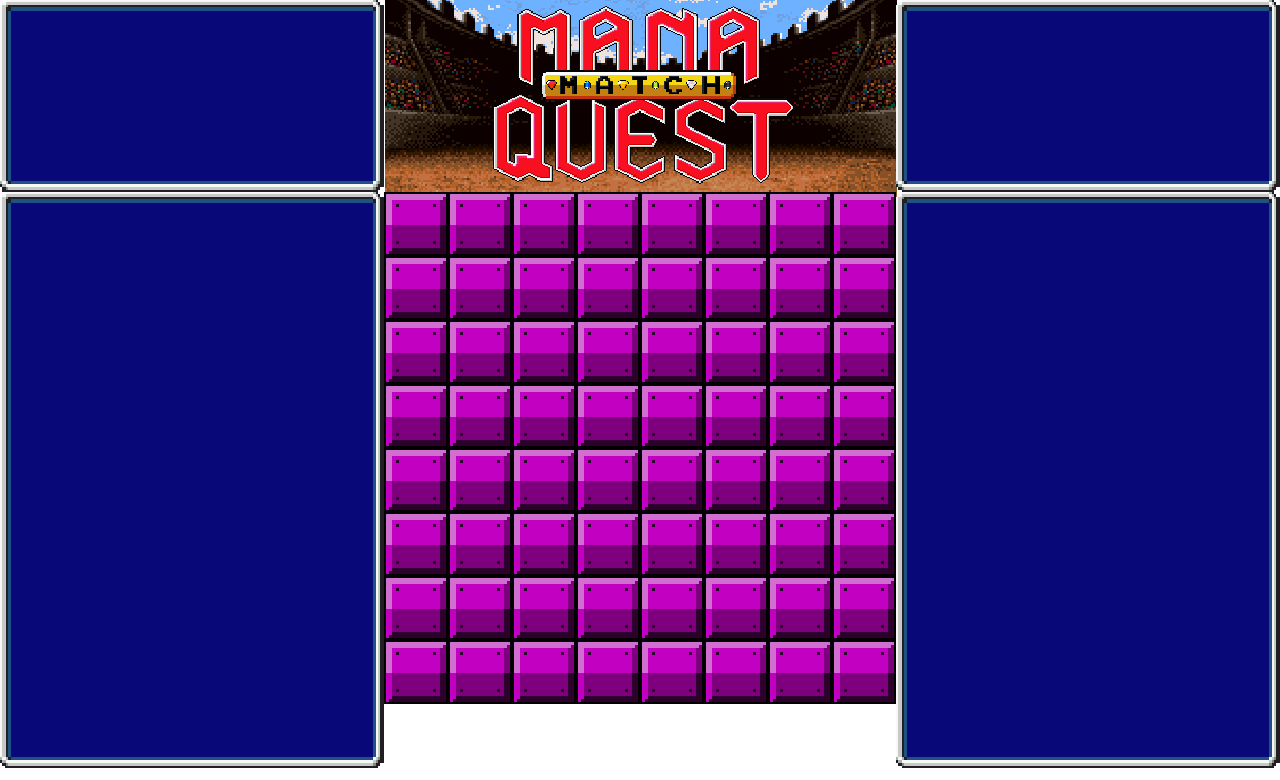
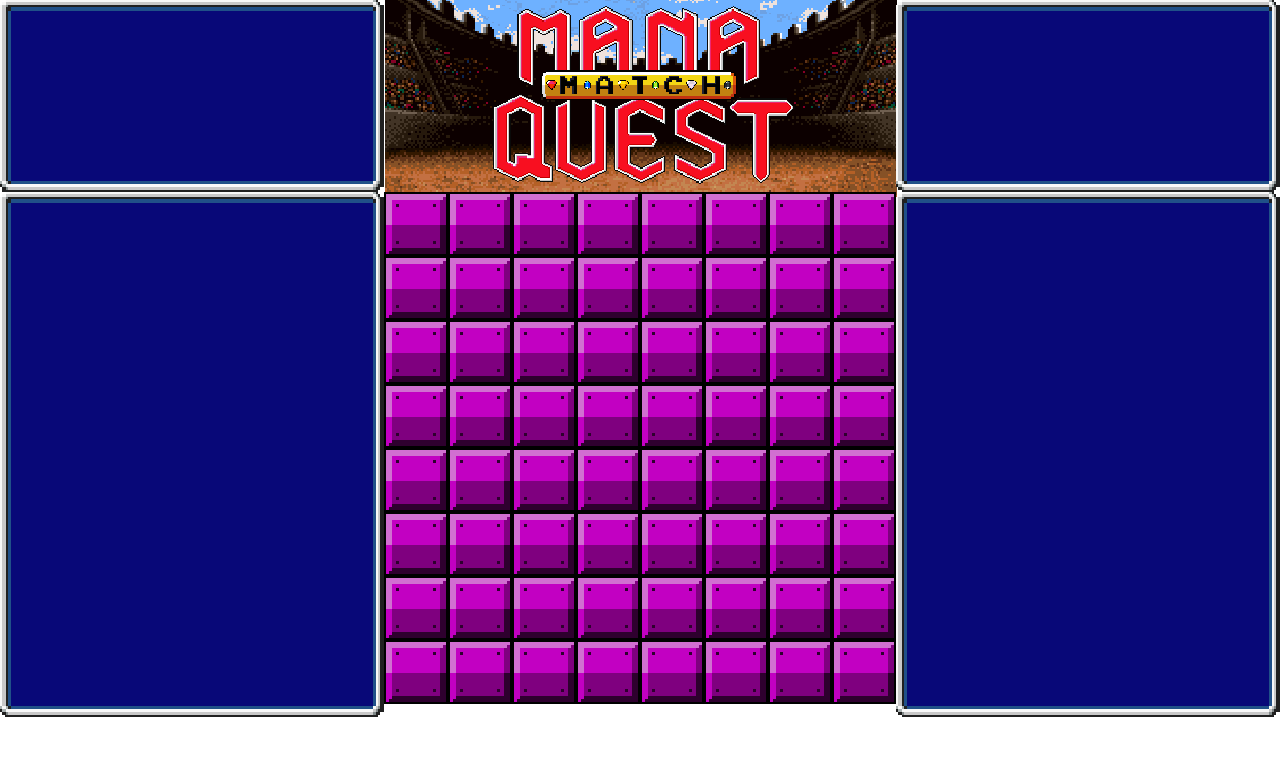
new animations for Choose Team screen and Victory/Defeat messages

Changed region(s): [[0.6875, 0.8923, 1.0, 0.9846], [0.0, 0.8923, 0.3125, 0.9846]]

diff --git a/public/game_js/entities/character.js b/public/game_js/entities/character.js
@@ -46,15 +46,15 @@ game.Character = me.Entity.extend({
     this.renderable.addAnimation('idle', [num]);
     this.renderable.addAnimation('standReady', [num+1]);
     this.renderable.addAnimation('walk', [num, num+2, num, num+4], 250);
-    this.renderable.addAnimation('walkWithWeapon', [num+13, num+14, num+15, num+14]);
-    this.renderable.addAnimation('attackWithWeapon', [num+11, num+12]);
+    this.renderable.addAnimation('walkWithWeapon', [num+13, num+14, num+15, num+14], 250);
+    this.renderable.addAnimation('attackWithWeapon', [num+11, num+12], 500);
     this.renderable.addAnimation('wounded', [num+8]);
-    this.renderable.addAnimation('takeDamage', [num+9, num+8]);
+    this.renderable.addAnimation('takeDamage', [num+9, num+8], 500);
     this.renderable.addAnimation('dead', [num+10]);
-    this.renderable.addAnimation('whisper', [num+5, num+6]);
-    this.renderable.addAnimation('wink', [num, num+6]);
-    this.renderable.addAnimation('punch', [num+4, num+3]);
-    this.renderable.addAnimation('dance', [num, num+7]);
+    this.renderable.addAnimation('whisper', [num+5, num+6], 500);
+    this.renderable.addAnimation('wink', [num, num+6], 500);
+    this.renderable.addAnimation('punch', [num+4, num+3], 500);
+    this.renderable.addAnimation('dance', [num, num+7], 500);
     this.renderable.setCurrentAnimation('idle');
   },
 

diff --git a/public/game_js/entities/chooseTeamEntity.js b/public/game_js/entities/chooseTeamEntity.js
@@ -1,0 +1,42 @@
+game.chooseTeamEntity = me.Entity.extend({
+  init: function(x, y, flipped, teamNumber) {
+    var settings = {};
+    settings.image = 'teamParties';
+    settings.width = 542;
+    settings.height = 160;
+    
+    this._super(me.Entity, 'init', [x, y, settings]);
+
+    this.startPos = { x: x, y: y};
+    this.flipped = flipped;
+    this.renderable.flipX(this.flipped);
+
+    this.teamNumber = teamNumber;
+
+    this.buildTeamEntity(this.teamNumber);
+},
+
+  
+  update: function(dt) {
+    this._super(me.Entity, 'update', [dt]);
+    this.body.update();
+    return true;
+  },
+
+  setAnimations: function(num) {
+    this.renderable.addAnimation('walk', [num, num+1, num+2, num+1], 250);
+    this.renderable.setCurrentAnimation('walk');
+  },
+
+  buildTeamEntity: function(teamNumber) {
+    console.log('building team', teamNumber);
+      switch(teamNumber) {
+        case 0:
+          this.setAnimations(0);
+          break;
+        case 1:
+          this.setAnimations(3);
+          break;
+      }
+  }
+});

diff --git a/public/game_js/screens/team.js b/public/game_js/screens/team.js
@@ -14,11 +14,21 @@ game.TeamScreen = me.ScreenObject.extend({
     this.team1Button = new game.ChooseTeam1(200, 175); 
     me.game.world.addChild(this.team1Button);
 
+    this.team1Entity = new game.chooseTeamEntity(50, 400, false, 0);
+    me.game.world.addChild(this.team1Entity);
+    this.team1Entity.renderable.setCurrentAnimation('walk');
+
     this.team2Button = new game.ChooseTeam2(700, 175); 
     me.game.world.addChild(this.team2Button);
+
+    this.team2Entity = new game.chooseTeamEntity(700, 400, false, 1);
+    me.game.world.addChild(this.team2Entity);
+    this.team2Entity.renderable.setCurrentAnimation('walk');
   },
 
   onDestroyEvent: function() {
+    me.game.world.removeChild(this.team1Entity);
+    me.game.world.removeChild(this.team2Entity);
     me.game.world.removeChild(this.background);
     me.game.world.removeChild(this.pageTitleUI);
     me.game.world.removeChild(this.pageTitle);

diff --git a/public/game_js/resources.js b/public/game_js/resources.js
@@ -128,5 +128,10 @@ game.resources = [
         "name": "arena",
         "type": "image",
         "src": "data/img/arena.png"
+    },
+    {
+        "name": "teamParties",
+        "type": "image",
+        "src": "data/img/teamParties.png"
     }
 ];
